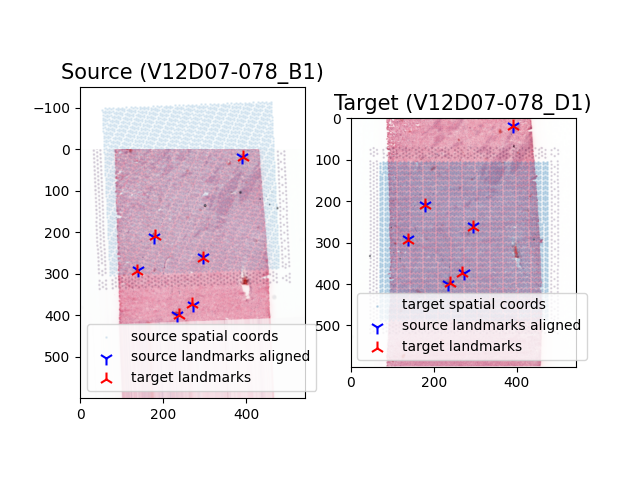
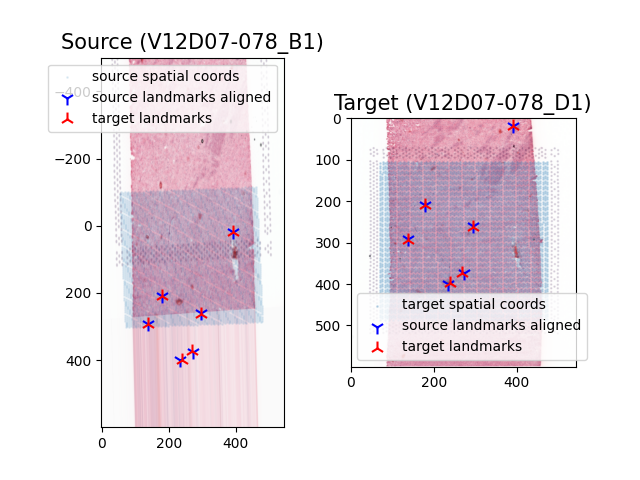
Add latest STalign testing code and outputs

Changed region(s): [[0.0625, 0.0625, 0.5, 0.9375]]

diff --git a/code/13_stalign_tests/05_two_sections_align.py b/code/13_stalign_tests/05_two_sections_align.py
@@ -1,0 +1,120 @@
+import numpy as np
+import matplotlib.pyplot as plt
+import matplotlib.transforms as mtransforms
+import pandas as pd
+import torch
+from STalign import STalign
+from pathlib import Path
+from pyhere import here
+from PIL import Image
+import re
+import os
+import json
+import pickle
+
+#   Set a non-interactive backend for writing figures to a file
+import matplotlib
+matplotlib.use('agg')
+
+sample_info_path = here(
+    'processed-data', '02_image_stitching', 'sample_info_clean.csv'
+)
+coldata_path = here(
+    'processed-data', '13_stalign_tests', 'raw_coldata.csv'
+)
+out_dir = Path(here('processed-data', '13_stalign_tests', 'two_sections'))
+plot_dir = Path(here('plots', '13_stalign_tests', 'two_sections'))
+capture_areas = ['V12D07-078_B1', 'V12D07-078_D1']
+
+plot_dir.mkdir(parents = False, exist_ok = True)
+
+sample_info = pd.read_csv(sample_info_path, index_col = 0)
+
+################################################################################
+#   Read in landmarks as done in the tutorial
+################################################################################
+
+pointsIlist = np.load(
+        out_dir / f'src_image_points.npy', allow_pickle=True
+    ).tolist()
+pointsJlist = np.load(
+        out_dir / f'target_image_points.npy', allow_pickle=True
+    ).tolist()
+
+pointsI = []
+pointsJ = []
+for i in pointsIlist.keys():
+    for j in range(len(pointsIlist[i])):
+        pointsI.append([pointsIlist[i][j][1], pointsIlist[i][j][0]])
+
+for i in pointsJlist.keys():
+    for j in range(len(pointsJlist[i])):
+        pointsJ.append([pointsJlist[i][j][1], pointsJlist[i][j][0]])
+
+pointsI = np.array(pointsI)
+pointsJ = np.array(pointsJ)
+
+################################################################################
+#   Read in tissue positions for source capture area and scale, if applicable
+################################################################################
+
+spaceranger_json_list = []
+tissue_positions_list = []
+for i in range(2):
+    pattern = re.compile(r'^tissue_positions(_list|)\.csv$')
+    this_dir = sample_info.loc[capture_areas[i], 'spaceranger_dir']
+    tissue_path = [
+            Path(os.path.join(this_dir, x)) for x in os.listdir(this_dir)
+            if pattern.match(x)
+        ][0]
+    if '_list' in tissue_path.name: 
+        tissue_positions = pd.read_csv(
+            tissue_path,
+            header = None,
+            # Note the switch of x and y
+            names = ["in_tissue", "row", "col", "y", "x"],
+            index_col = 0
+        )
+    else:
+        tissue_positions = pd.read_csv(
+            tissue_path,
+            skiprows = 1,
+            # Note the switch of x and y
+            names = ["in_tissue", "row", "col", "y", "x"],
+            index_col = 0
+        )
+    #
+    sf_json_path = os.path.join(this_dir, 'scalefactors_json.json')
+    with open(sf_json_path, 'r') as f:
+        spaceranger_json_list.append(json.load(f))
+    #
+    #   Scale spatial coordinates to high or lowres
+    tissue_positions['x'] *= spaceranger_json_list[-1]['tissue_hires_scalef']
+    tissue_positions['y'] *= spaceranger_json_list[-1]['tissue_hires_scalef']
+    #
+    tissue_positions.index += '_' + capture_areas[i]
+    tissue_positions_list.append(tissue_positions)
+
+################################################################################
+#   Compute affine transformation and apply to source landmarks and spatial
+#   coords
+################################################################################
+
+# set device for building tensors
+if torch.cuda.is_available():
+    torch.set_default_device('cuda:0')
+else:
+    torch.set_default_device('cpu')
+
+# compute initial affine transformation from points
+L,T = STalign.L_T_from_points(pointsI,pointsJ)
+
+#   Doesn't work because in general this is an affine transform, not an affine
+#   transform without scaling
+
+#   Determine theta by using arccos, but negate it when sin(theta) is negative,
+#   to account for the convention that arccos returns positive angles
+theta_cos = np.arccos(L[0, 0]) * (2 * (L[1, 0] > 0) - 1)
+
+
+A = STalign.to_A(torch.tensor(L),torch.tensor(T))

diff --git a/code/13_stalign_tests/03_two_sections_pre_annotate.py b/code/13_stalign_tests/03_two_sections_pre_annotate.py
@@ -4,7 +4,6 @@ from STalign import STalign
 from pathlib import Path
 from pyhere import here
 from PIL import Image
-import os
 
 sample_info_path = here(
     'processed-data', '02_image_stitching', 'sample_info_clean.csv'
